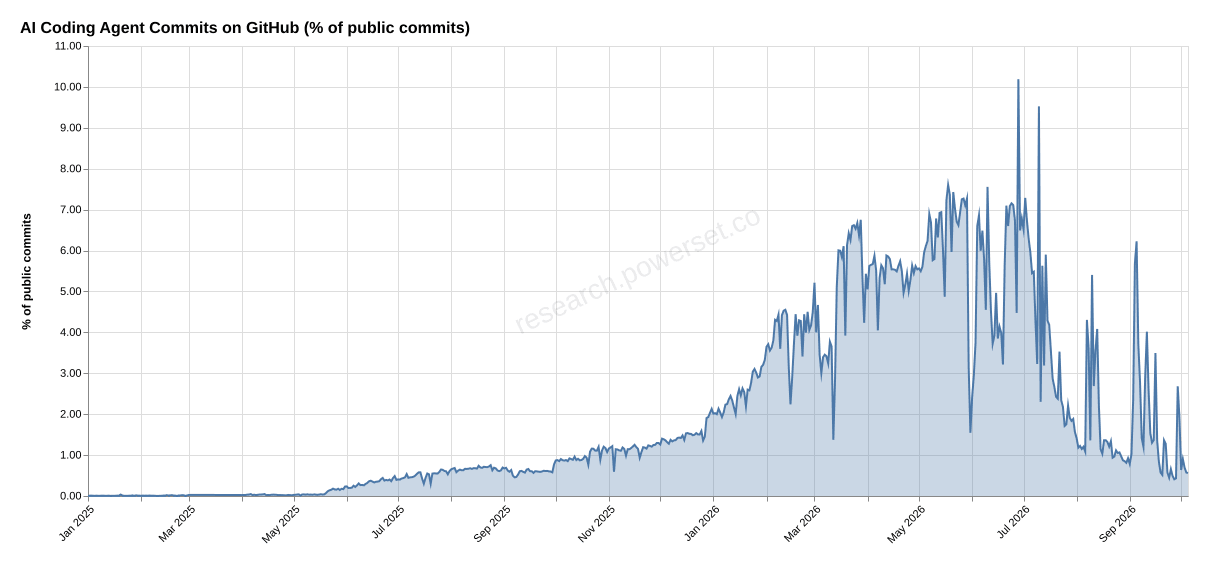
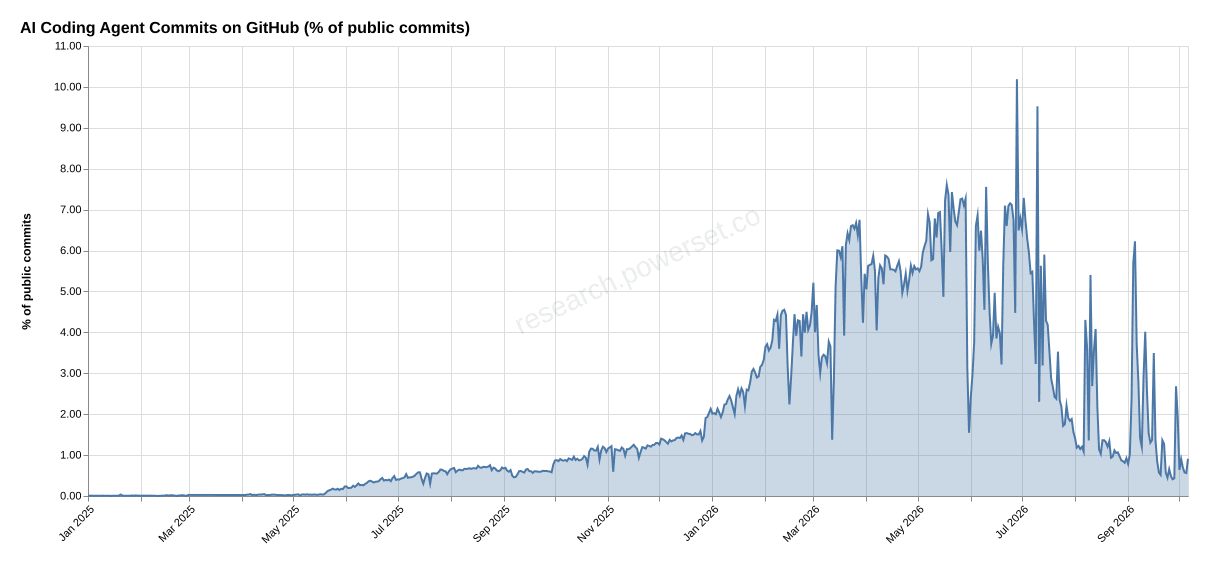
data update

diff --git a/README.md b/README.md
@@ -11,7 +11,7 @@ The following chart and table are updated automatically by a GitHub Action runni
 
 | Agent          |                      | %     |
 | -------------- | -------------------- | ----- |
-| Claude Code    | ████████████████████ | 0.90% |
+| Claude Code    | ████████████████████ | 0.94% |
 | Cursor         | █                    | 0.03% |
 | GitHub Copilot |                      | 0.00% |
 
